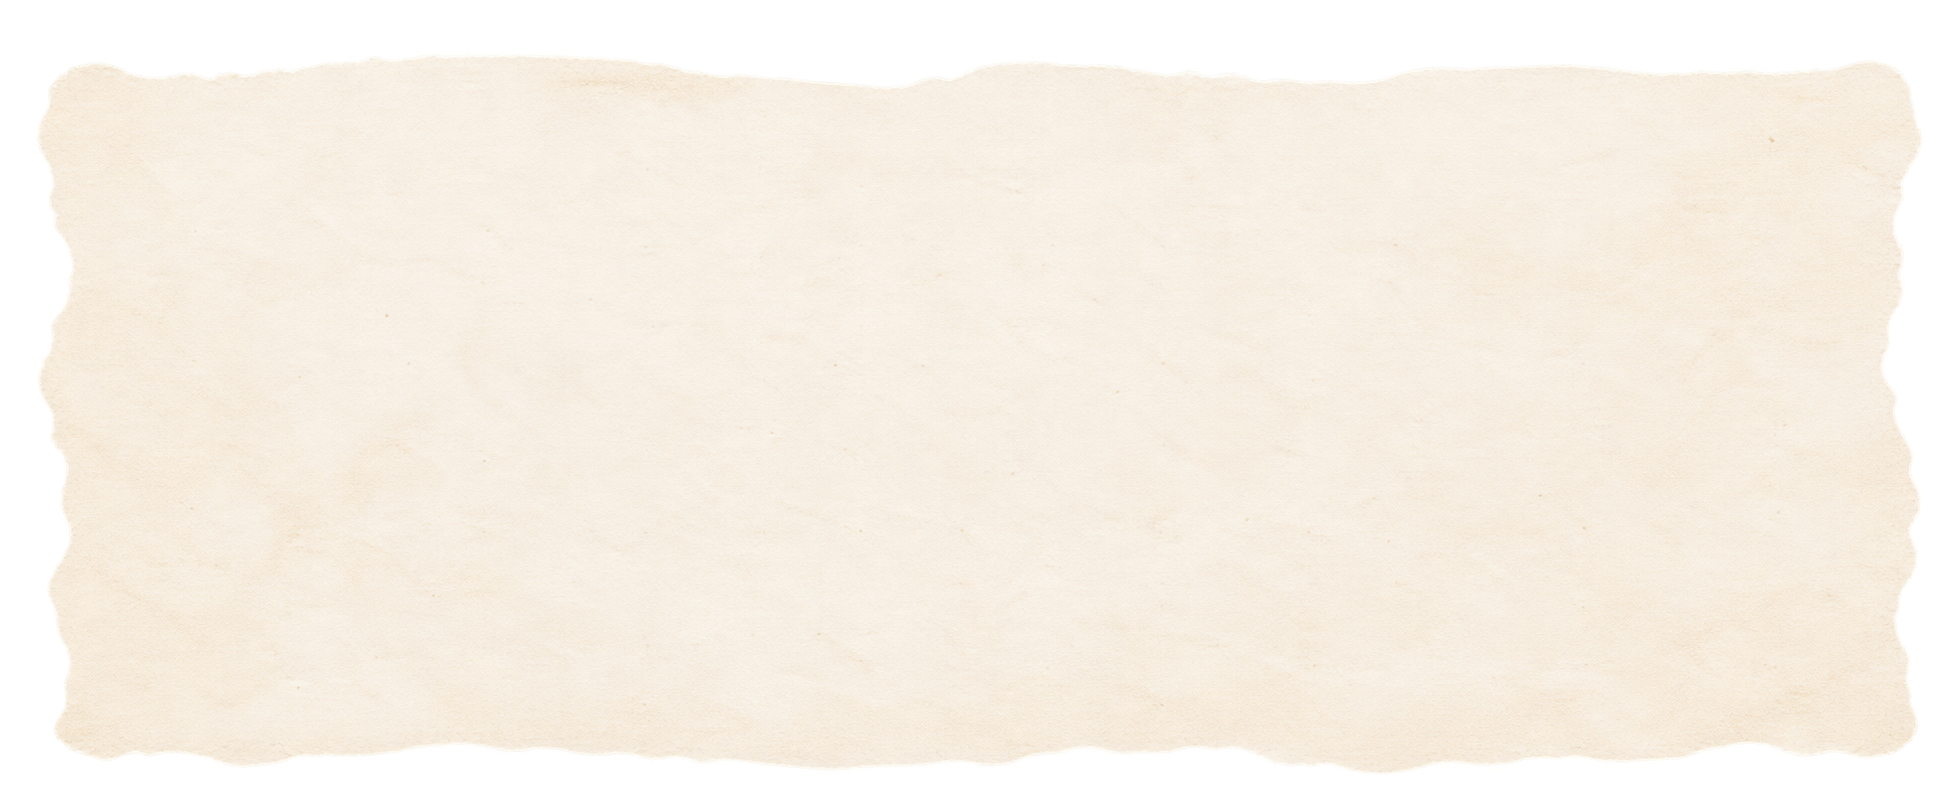
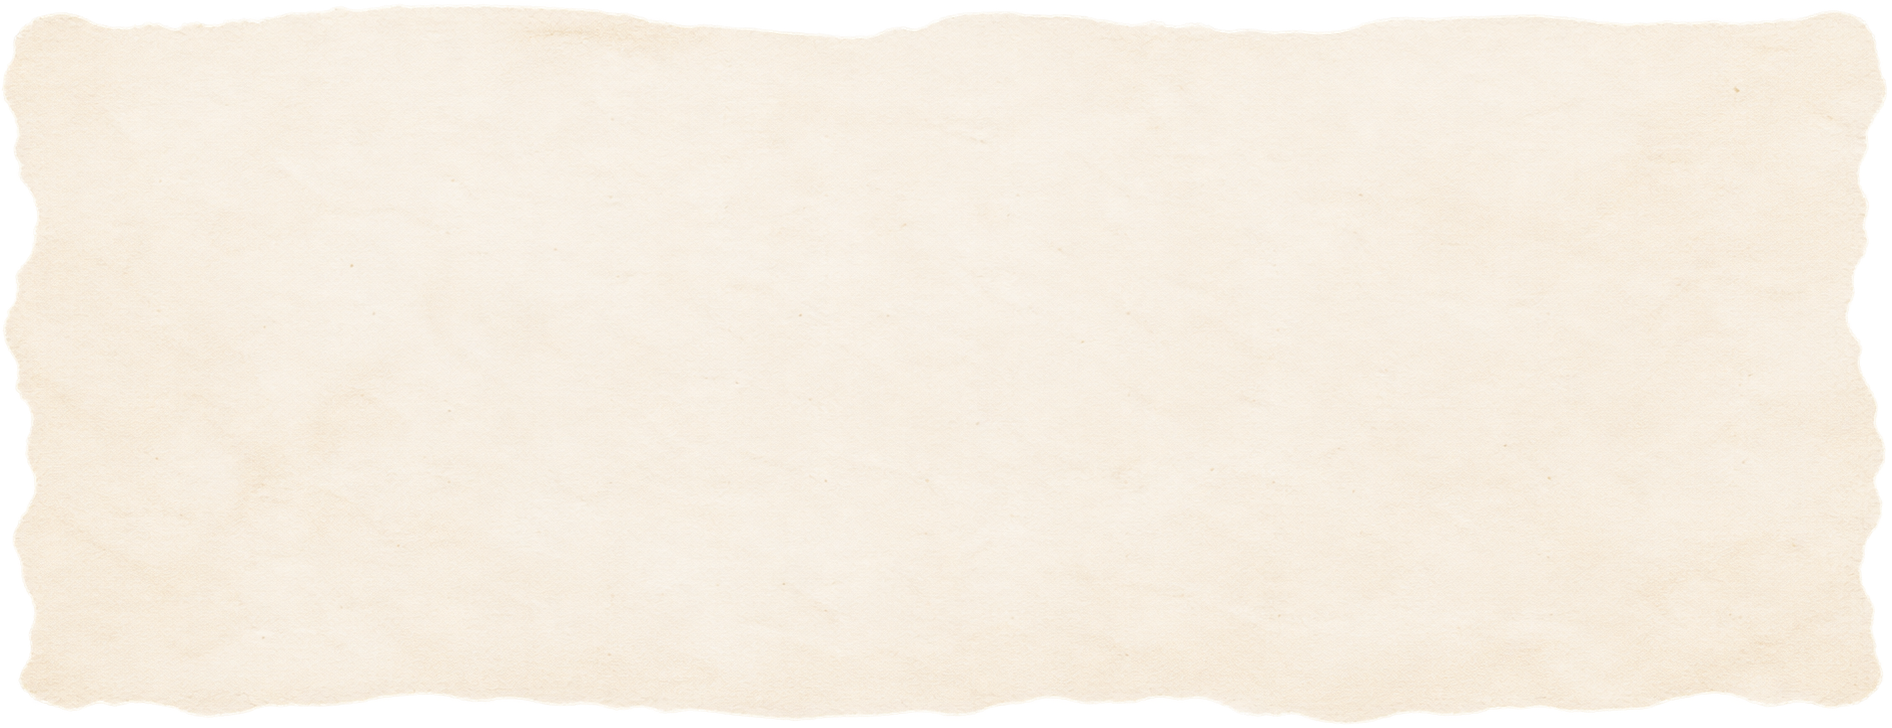
enhance: 위치 조정 1차

Changed region(s): [[0.0, 0.0, 0.9979, 0.9973]]

diff --git a/app/home.module.css b/app/home.module.css
@@ -12,7 +12,14 @@
 .page {
   position: relative;
   z-index: 1;
+  max-width: 100%;
+  overflow-x: hidden;
+}
+
+.page main {
+  max-width: 100%;
   overflow-x: clip;
+  overflow-y: visible;
 }
 
 .anchor {
@@ -142,7 +149,8 @@
   position: relative;
   z-index: 1;
   margin-top: calc(-1 * var(--sheet-overlap));
-  overflow: visible;
+  overflow-x: clip;
+  overflow-y: visible;
 }
 
 .sheetBackdrop {
@@ -151,43 +159,57 @@
   left: 0;
   z-index: 0;
   width: 100%;
-  min-height: 100%;
   overflow: hidden;
   pointer-events: none;
 }
 
 .sheetBackdropStory {
   top: calc(
-    -100vw * 64 / 1954 * var(--sheet-scale) - var(--sheet-lift-extra)
+    -100vw * var(--sheet-tear-story) / var(--sheet-art-width) -
+      var(--sheet-lift-extra)
   );
   height: calc(
-    100% + 100vw * 64 / 1954 * var(--sheet-scale) + var(--sheet-lift-extra)
+    100% + 100vw * var(--sheet-tear-story) / var(--sheet-art-width) +
+      var(--sheet-lift-extra)
   );
 }
 
 .sheetBackdropNeverland {
   top: calc(
-    -100vw * 84 / 1655 * var(--sheet-scale) - var(--sheet-lift-extra)
+    -100vw * var(--sheet-tear-neverland) / var(--sheet-art-width) -
+      var(--sheet-lift-extra)
   );
   height: calc(
-    100% + 100vw * 84 / 1655 * var(--sheet-scale) + var(--sheet-lift-extra)
+    100% + 100vw * var(--sheet-tear-neverland) / var(--sheet-art-width) +
+      var(--sheet-lift-extra)
   );
 }
 
 .sheetBackdropCommunity {
   top: calc(
-    -100vw * 64 / 1954 * var(--sheet-scale) - var(--sheet-lift-extra)
+    -100vw * var(--sheet-tear-community) / var(--sheet-art-width) -
+      var(--sheet-lift-extra-community) - var(--sheet-seam-hairline)
   );
   height: calc(
-    100% + 100vw * 64 / 1954 * var(--sheet-scale) + var(--sheet-lift-extra)
+    100% + 100vw * var(--sheet-tear-community) / var(--sheet-art-width) +
+      var(--sheet-lift-extra-community) + var(--sheet-seam-hairline)
   );
+}
+
+.sheetBackdropMedia {
+  position: absolute;
+  top: 0;
+  bottom: 0;
+  left: 50%;
+  width: calc(100% * var(--sheet-focus-scale));
+  min-width: 100%;
+  transform: translateX(-50%);
+  overflow: hidden;
 }
 
 .sheetBackdropImage {
   object-fit: cover;
   object-position: top center;
-  transform: scale(var(--sheet-scale));
-  transform-origin: top center;
 }
 
 .body {
@@ -197,8 +219,13 @@
 
 .story {
   background-color: var(--paper);
-  min-height: 100vh;
-  padding: 108px 0 96px;
+  padding: 108px 0 clamp(48px, 8vw, 96px);
+}
+
+@media (min-width: 981px) {
+  .story {
+    min-height: 100vh;
+  }
 }
 
 .storyGrid {
@@ -214,8 +241,21 @@
 }
 
 .neverland {
+  z-index: 1;
   background-color: var(--forest);
-  padding: 108px 0 clamp(72px, 10vw, 96px);
+  margin-top: calc(
+    -1 *
+      (
+        100vw * var(--sheet-tear-bottom-story) / var(--sheet-art-width) +
+          100vw * var(--sheet-tear-neverland) / var(--sheet-art-width) +
+          var(--sheet-seam-pull)
+      )
+  );
+  padding: 108px 0 0;
+}
+
+.neverland .body {
+  padding-bottom: clamp(40px, 5vw, 64px);
 }
 
 .neverlandHead {
@@ -316,43 +356,61 @@
   user-select: none;
 }
 
-.leaf {
-  top: -28px;
-  left: -18px;
-  width: clamp(107px, 15vw, 227px);
+.neverland .leaf {
+  top: 0;
+  left: 0;
+  width: clamp(72px, 10vw, 152px);
+  height: auto;
 }
 
-.bloom {
+.neverland .bloom {
   bottom: 0;
-  left: -12px;
-  width: clamp(80px, 11vw, 160px);
+  left: 0;
+  width: clamp(54px, 7.5vw, 107px);
+  height: auto;
 }
 
-.horizon {
+.neverland .horizon {
   right: 0;
   bottom: 0;
   left: auto;
-  z-index: 1;
-  width: clamp(224px, 40vw, 480px);
+  z-index: 4;
+  width: clamp(168px, 26vw, 340px);
+  height: clamp(56px, 9vw, 108px);
+  overflow: hidden;
   line-height: 0;
 }
 
-.horizonImage {
+.neverland .horizonImage {
   display: block;
   width: 100%;
-  height: auto;
-  vertical-align: bottom;
+  height: 100%;
+  max-width: none;
+  object-fit: cover;
+  object-position: right bottom;
 }
 
-.floatingStar {
-  top: 18%;
-  right: 8%;
-  width: clamp(36px, 4vw, 64px);
+.neverland .floatingStar {
+  top: 14%;
+  right: 6%;
+  width: clamp(28px, 3.2vw, 48px);
 }
 
 .community {
-  background-color: var(--paper);
-  padding: 108px 0 96px;
+  z-index: 2;
+  background-color: transparent;
+  margin-top: calc(
+    -1 *
+      (
+        var(--sheet-seam-scale-community) *
+          (
+            100vw * var(--sheet-tear-bottom-neverland) /
+              var(--sheet-art-width) +
+              100vw * var(--sheet-tear-community) / var(--sheet-art-width)
+          ) + var(--sheet-seam-hairline)
+      )
+  );
+  padding: clamp(56px, 6.5vw, 80px) 0 96px;
 }
 
 .communityGrid {
@@ -365,7 +423,9 @@
 .polaroidsStage {
   position: relative;
   min-width: 0;
+  max-width: 100%;
   padding: 16px 4px 4px;
+  overflow-x: clip;
 }
 
 .polaroidsStage .polaroids {
@@ -702,15 +762,19 @@
     transform: none;
   }
 
-  .leaf {
-    top: -20px;
-    width: 100px;
+  .neverland .leaf {
+    width: 68px;
     opacity: 0.85;
   }
 
-  .bloom {
-    bottom: 0;
-    width: 62px;
+  .neverland .bloom {
+    width: 48px;
+  }
+
+  .neverland .horizon {
+    width: clamp(140px, 42vw, 240px);
+    height: clamp(48px, 12vw, 72px);
+    opacity: 0.92;
   }
 
   .communityFlowerLeft {
@@ -737,10 +801,6 @@
     width: 16px;
   }
 
-  .horizon {
-    opacity: 0.85;
-  }
-
   .footerGrid {
     flex-direction: column;
   }
@@ -764,6 +824,10 @@
   .neverland,
   .community {
     padding-top: 84px;
+  }
+
+  .story {
+    padding-bottom: 64px;
   }
 
   .film {

diff --git a/app/page.tsx b/app/page.tsx
@@ -1,7 +1,7 @@
 import { cacheLife } from "next/cache";
 import Image, { type StaticImageData } from "next/image";
 
-import heroBackground from "@assets/images/background/section-1.png";
+import heroBackground from "@assets/images/background/section-1.jpg";
 import storyBackground from "@assets/images/background/section-2.png";
 import neverlandBackground from "@assets/images/background/section-3.png";
 import communityBackground from "@assets/images/background/section-4.png";
@@ -135,6 +135,7 @@ const HomeScreen = async () => {
           alt=""
           fill
           priority
+          quality={90}
           sizes="100vw"
           className={styles.skyImage}
         />
@@ -232,6 +233,7 @@ const StorySection = () => {
       <SheetBackdrop
         src={storyBackground}
         backdropClassName={styles.sheetBackdropStory}
+        priority
       />
       <div className={`${styles.body} ${styles.wrap} ${styles.storyGrid}`}>
         <div className={styles.stack}>
@@ -563,21 +565,27 @@ const FooterSection = () => {
 type SheetBackdropProps = {
   src: StaticImageData;
   backdropClassName: string;
+  priority?: boolean;
 };
 
-const SheetBackdrop = ({ src, backdropClassName }: SheetBackdropProps) => {
+const SheetBackdrop = ({
+  src,
+  backdropClassName,
+  priority,
+}: SheetBackdropProps) => {
   // render
   return (
-    <div
-      className={`${styles.sheetBackdrop} ${backdropClassName}`}
-      aria-hidden>
-      <Image
-        src={src}
-        alt=""
-        fill
-        className={styles.sheetBackdropImage}
-        sizes="150vw"
-      />
+    <div className={`${styles.sheetBackdrop} ${backdropClassName}`} aria-hidden>
+      <div className={styles.sheetBackdropMedia}>
+        <Image
+          src={src}
+          alt=""
+          fill
+          priority={priority}
+          className={styles.sheetBackdropImage}
+          sizes="100vw"
+        />
+      </div>
     </div>
   );
 };

diff --git a/app/globals.css b/app/globals.css
@@ -13,8 +13,21 @@
   --white: #fffdf8;
   --header-height: 76px;
   --sheet-overlap: 0px;
-  --sheet-scale: 1.42;
-  --sheet-lift-extra: clamp(40px, 7vw, 88px);
+  --sheet-art-width: 1080;
+  --sheet-side-bleed: 12;
+  --sheet-tear-story: 11;
+  --sheet-tear-neverland: 9;
+  --sheet-tear-community: 11;
+  --sheet-tear-bottom-story: 13;
+  --sheet-tear-bottom-neverland: 20;
+  --sheet-tear-bottom-community: 13;
+  --sheet-bleed: calc(100vw * var(--sheet-side-bleed) / var(--sheet-art-width));
+  --sheet-lift-extra: clamp(16px, 2.8vw, 40px);
+  --sheet-lift-extra-community: clamp(6px, 1vw, 14px);
+  --sheet-seam-pull: clamp(6px, 1.2vw, 16px);
+  --sheet-seam-scale-community: 0.25;
+  --sheet-seam-hairline: 3px;
+  --sheet-focus-scale: 1.22;
 }
 
 * {
@@ -22,12 +35,12 @@
 }
 
 html {
-  overflow-x: clip;
+  overflow-x: hidden;
   scroll-behavior: smooth;
 }
 
 body {
-  overflow-x: clip;
+  overflow-x: hidden;
   margin: 0;
   background: var(--sky);
   color: var(--ink);

diff --git a/next.config.ts b/next.config.ts
@@ -2,6 +2,8 @@ import type { NextConfig } from "next";
 
 const nextConfig: NextConfig = {
   images: {
+    qualities: [75, 90],
+    deviceSizes: [640, 750, 828, 1080, 1200, 1639, 1920, 2048],
     remotePatterns: [
       {
         protocol: "https",
